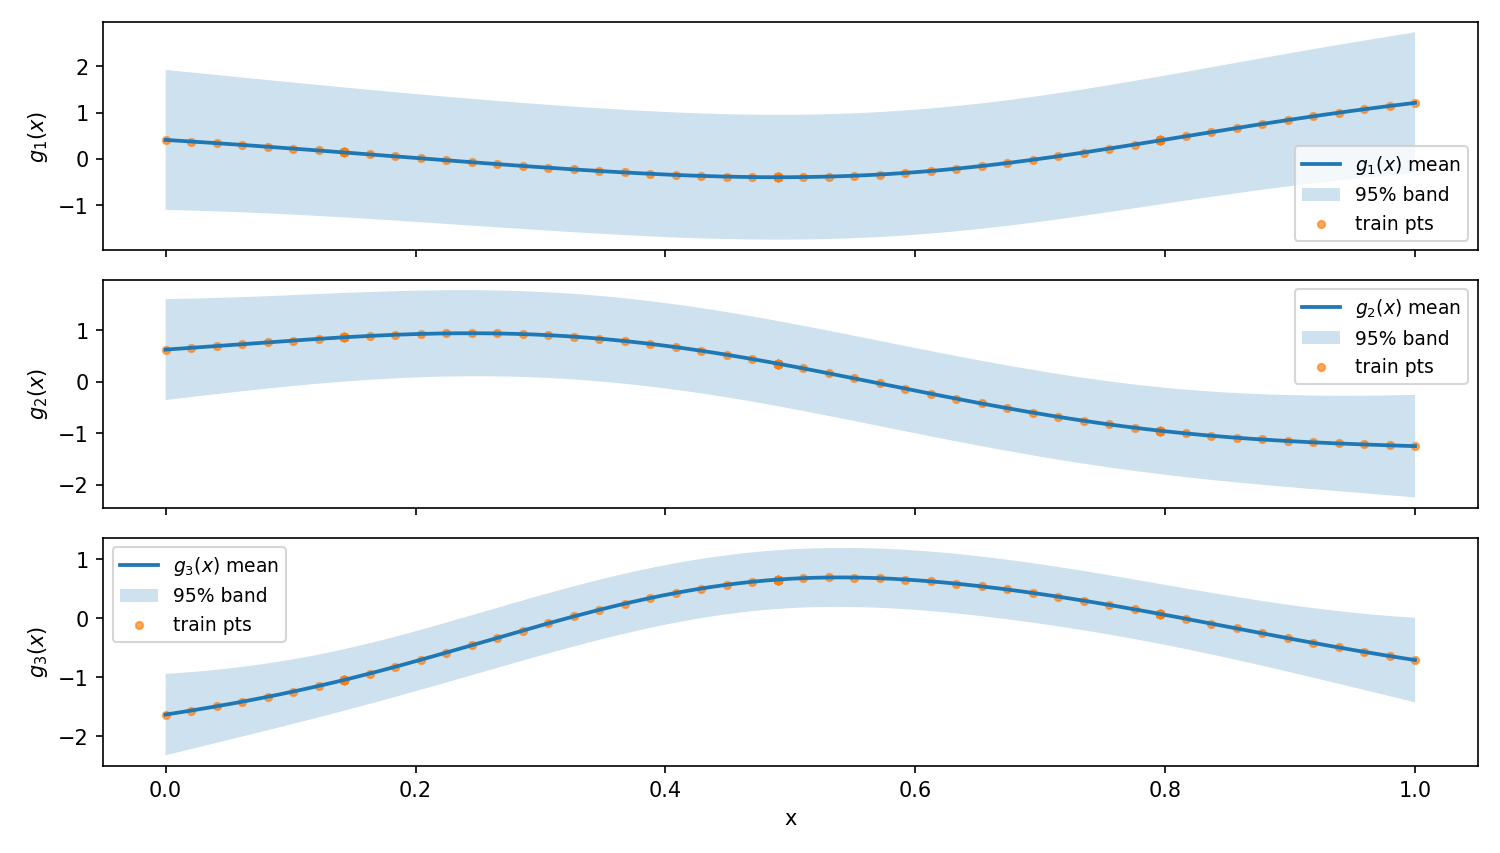
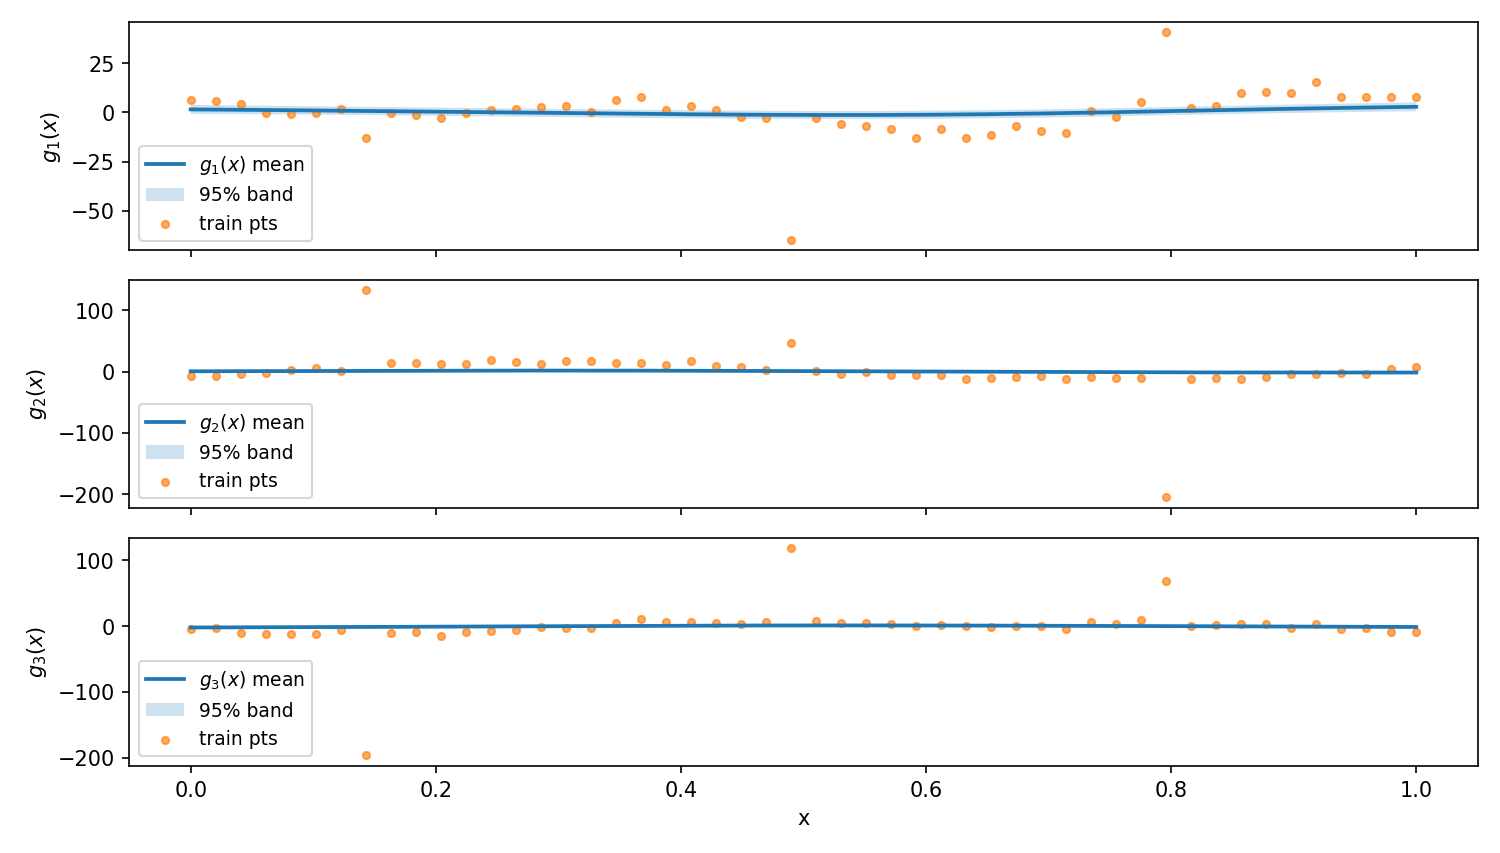
fix wrong negative signs in neglpost_rep

diff --git a/illustration-examples/lcgp-rep-3d-illustration.py b/illustration-examples/lcgp-rep-3d-illustration.py
@@ -113,33 +113,33 @@ def make_rep_data_hotspots(n_unique=50,
 # )
 
 # # CASE 2: Skewed replication
-# results_fig_path = './results_figure_rep_1d_skewed/'
-# Path(results_fig_path).mkdir(parents=True, exist_ok=True)
-# xtrain, ytrain, xtest, ytrue = make_rep_data_skewed(
-#     n_unique=40,
-#     heavy_region=(0.20, 0.45),
-#     light_rep_choices=(1, 2),
-#     heavy_rep_choices=(8, 12, 16, 20),
-#     noise_std=(0.05, 0.08, 0.10),
-#     seed=123
-# )
+results_fig_path = './results_figure_rep_1d_skewed/'
+Path(results_fig_path).mkdir(parents=True, exist_ok=True)
+xtrain, ytrain, xtest, ytrue = make_rep_data_skewed(
+    n_unique=40,
+    heavy_region=(0.20, 0.45),
+    light_rep_choices=(1, 2),
+    heavy_rep_choices=(8, 12, 16, 20),
+    noise_std=(0.05, 0.08, 0.10),
+    seed=123
+)
 
 # CASE 3: Hot-spots
-results_fig_path = './results_figure_rep_1d_hotspots/'
-Path(results_fig_path).mkdir(parents=True, exist_ok=True)
-xtrain, ytrain, xtest, ytrue = make_rep_data_hotspots(
-    n_unique=50,
-    hotspots=((0.15, 10, 15), (0.50, 18, 25), (0.80, 12, 20)),
-    base_rep_choices=(1,),
-    noise_std=(0.05, 0.08, 0.10),
-    seed=7
-)
+# results_fig_path = './results_figure_rep_1d_hotspots/'
+# Path(results_fig_path).mkdir(parents=True, exist_ok=True)
+# xtrain, ytrain, xtest, ytrue = make_rep_data_hotspots(
+#     n_unique=50,
+#     hotspots=((0.15, 10, 15), (0.50, 18, 25), (0.80, 12, 20)),
+#     base_rep_choices=(1,),
+#     noise_std=(0.05, 0.08, 0.10),
+#     seed=7
+# )
 
 # --------------------------
 # Build & train the model
 # --------------------------
 SUBMETHOD = 'rep'   # set 'rep' for replicated data; 'full' for non-replicated
-PLOT_MODE = 'g'     # 'g' to plot latents; 'y' to plot outputs
+PLOT_MODE = 'y'     # 'g' to plot latents; 'y' to plot outputs
 
 data = {
     'xtrain': xtrain,

diff --git a/illustration-examples/call_model.py b/illustration-examples/call_model.py
@@ -87,10 +87,31 @@ class LCGPRun(SuperRun):
     #     ypredmean, ypredvar, _ = self.model.predict(xtest, return_fullcov=False)
 
     #     return ypredmean.numpy(), ypredvar.numpy()
-    def predict(self, train: bool = False, return_fullcov: bool = False):
+    def predict(self, train: bool = False, return_fullcov: bool = False, as_pxn: bool = False):
         xtest = self.xtrain if train else self.xtest
-        ymean, ypredvar, yconfvar = self.model.predict(xtest, return_fullcov=return_fullcov)
-        return ymean.numpy(), ypredvar.numpy(), yconfvar.numpy()
+        out = self.model.predict(xtest, return_fullcov=return_fullcov)
+
+        if return_fullcov:
+            ymean, ypredvar, yconfvar, yfullpredcov = out
+            ymean = ymean.numpy()
+            ypredvar = ypredvar.numpy()
+            yconfvar = yconfvar.numpy()
+            yfullpredcov = yfullpredcov.numpy()
+            if as_pxn:  # return (p, n0) if you want to match your recomposition code
+                ymean = ymean.T
+                ypredvar = ypredvar.T
+                yconfvar = yconfvar.T
+            return ymean, ypredvar, yconfvar, yfullpredcov
+        else:
+            ymean, ypredvar, yconfvar = out
+            ymean = ymean.numpy()
+            ypredvar = ypredvar.numpy()
+            yconfvar = yconfvar.numpy()
+            if as_pxn:
+                ymean = ymean.T
+                ypredvar = ypredvar.T
+                yconfvar = yconfvar.T
+            return ymean, ypredvar, yconfvar
 
     
 import numpy as np

diff --git a/lcgp/lcgp.py b/lcgp/lcgp.py
@@ -437,7 +437,7 @@ class LCGP(gpflow.Module):
         std = self.ybar_std[:, 0]  
         std_sq = tf.square(std)
         sigma_var_std = sigma_var_raw / std_sq  # Σ_s
-        sigma_inv_std = 1.0 / sigma_var_std  # Σ_s^{-1}
+        sigma_inv_std = 1.0 / sigma_var_std  # Σ_s^{-1} 
         sigma_inv_sqrt_std = sigma_inv_sqrt_raw * std  # Σ_s^{-1/2}
 
         nlp = tf.constant(0.0, tf.float64)
@@ -468,7 +468,6 @@ class LCGP(gpflow.Module):
             Ck = Matern32(xk, xk, llmb=lLmb[k], llmb0=lLmb0[k], lnug=lnugGPs[k]) 
 
             LC_k = tf.linalg.cholesky(Ck)
-            logdet_Ck = 2.0 * tf.reduce_sum(tf.math.log(tf.linalg.diag_part(LC_k)))
 
             # b_k = R @ ybar_s^T @ (Σ_s^{-1/2} φ_k)
             v_k = sigma_inv_sqrt_std * phi[:, k]  # Σ_s^{-1/2} φ_k
@@ -488,14 +487,12 @@ class LCGP(gpflow.Module):
             bkSb_sum += tf.tensordot(b_k, Sb, axes=1)
             logA_sum += 2.0 * tf.reduce_sum(tf.math.log(tf.linalg.diag_part(LA)))
 
-            nlp += -0.5 * logdet_Ck
-
         nlp += -0.5 * bkSb_sum
         nlp +=  0.5 * logA_sum
+
         nlp +=  reg
         nlp /= n
         return nlp
-
 
     @tf.function
     def neglpost(self):
